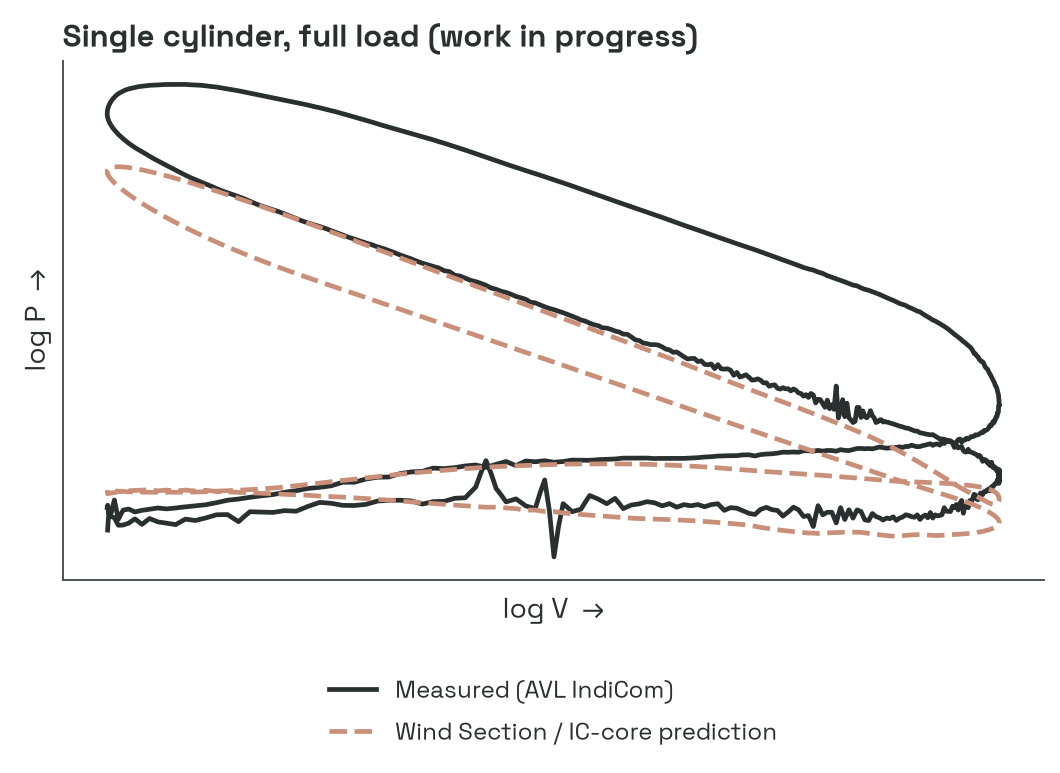
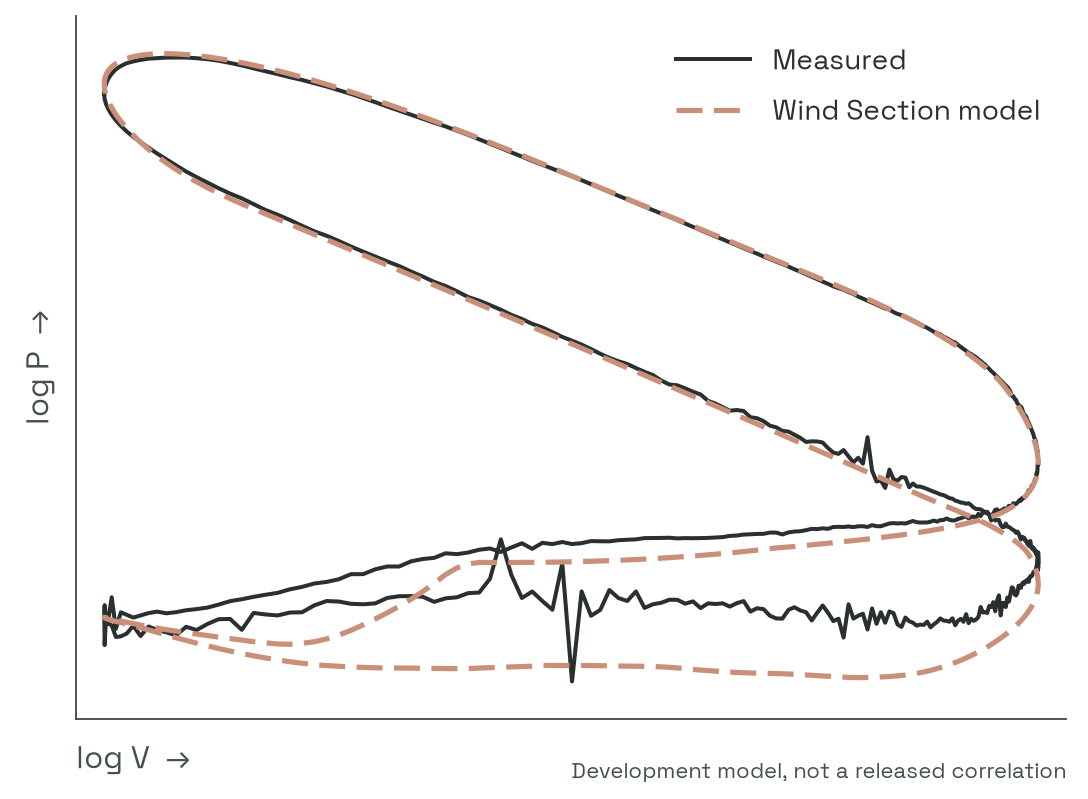
Update showcase: product marks, simplified text, new P-v figure

diff --git a/index.html b/index.html
@@ -8,12 +8,12 @@
 <meta name="theme-color" content="#2A2F2F">
 <title>Engineering Work | Clayton Naber | Naber Research</title>
 <link rel="stylesheet" href="assets/site.css">
-<link rel="icon" href="assets/img/nr-parent.png" type="image/png">
+<link rel="icon" href="assets/img/brand/nr-parent_badge_light_64w.png" type="image/png">
 </head>
 <body>
 <a class="skip" href="#main">Skip to content</a>
 <header>
- <div class="wrap brandline"><a href="#top" aria-label="Naber Research home"><img class="mark" src="assets/img/nr-parent-dark.png" alt="Naber Research"></a><span class="signature">Pro-level engineering for real racers.</span></div>
+ <div class="wrap brandline"><a href="#top" aria-label="Naber Research home"><img class="mark" src="assets/img/brand/nr-parent_horizontal_dark_640w.png" alt="Naber Research" width="640" height="123"></a><span class="signature">Pro-level engineering for real racers.</span></div>
 </header>
 <main id="main">
  <section class="hero wrap" id="top">
@@ -25,46 +25,55 @@
    <li><strong>Measure</strong><span>Pressure, motion, flow</span></li><li><strong>Calibrate</strong><span>Test data into models</span></li><li><strong>Simulate</strong><span>Cycle, dynamics, CFD</span></li><li><strong>Design</strong><span>Cam, spring, port</span></li><li><strong>Document</strong><span>Test and build records</span></li>
   </ol>
   <p class="return">↳ Test bench → model → hardware → test bench</p>
+  <div class="products" aria-labelledby="products-h">
+   <p class="eyebrow" id="products-h">Products</p>
+   <ul class="product-row">
+    <li><a href="#valvetrain"><img src="assets/img/brand/nr_valve-parlor_flat-icon-icon_fullcolor_256.png" alt="" width="256" height="256"><span class="pname">Valve Parlor</span><span class="psub">Valvetrain Testing &amp; Simulation</span></a></li>
+    <li><a href="#pressure"><img src="assets/img/brand/nr_wind-section_flat-icon-icon_fullcolor_256.png" alt="" width="256" height="256"><span class="pname">Wind Section</span><span class="psub">Engine Pressure Measurement &amp; Simulation</span></a></li>
+    <li><a href="#documentation"><img src="assets/img/brand/nr_assembly-required_flat-icon-icon_fullcolor_256.png" alt="" width="256" height="256"><span class="pname">Assembly Required</span><span class="psub">Engine Build Documentation</span></a></li>
+    <li><div><img src="assets/img/brand/nr_pedaling-sopha_flat-icon-icon_fullcolor_256.png" alt="" width="256" height="256"><span class="pname">Pedaling Sopha</span><span class="psub">Vehicle Simulation</span><span class="pnote">A vehicle modeling framework in early development.</span></div></li>
+   </ul>
+  </div>
   <nav aria-label="Selected work"><a href="#valvetrain">Valvetrain</a><a href="#pressure">Cylinder pressure</a><a href="#cam">Cam design</a><a href="#flow">Port &amp; flow</a><a href="#documentation">Build documentation</a></nav>
-  <aside class="notice"><strong>About these examples.</strong> Real-data plots have normalized, masked scales; project identifiers and operating conditions are omitted. The cam is a synthetic example. Figures show the engineering workflow, not a promise of model accuracy.</aside>
+  <aside class="notice">Real-data plots have masked scales; the cam is a synthetic example.</aside>
  </section>
  <section class="section wrap" id="valvetrain">
-  <div class="section-head"><div><p class="eyebrow">Valvetrain Testing &amp; Simulation</p><h2>Measure the motion.<br>Question the model.</h2></div><span class="status">Real data · scales masked</span></div>
-  <div class="prose"><p>Spintron measurements make valve motion visible. I compare a clean, low-speed Spintron lift measurement with a fitted OpenModelica model in VTsim, looking at the whole event, including closing and seating, not just peak lift.</p><p>This is a dated, fitted development case from September 2026. It is not the current production model and not a validated operating envelope. Both traces use the same cam-referenced alignment and the same lift normalization. The traces were not shifted independently to improve agreement.</p></div>
-  <figure class="wide"><a href="assets/img/valvetrain_overlay.png"><img src="assets/img/valvetrain_overlay.png" alt="Normalized Spintron valve lift and fitted VTsim model overlay across the full lift event, with a closing and seating detail. Axis scales are masked." loading="lazy"></a><figcaption>Low-speed Spintron measurement (solid) and a fitted VTsim development model from September 2026 (dashed). Same alignment and normalization for both traces; no independent shifting. Lift, speed, part and operating-condition values are withheld. Tap a figure to enlarge.</figcaption></figure>
+  <div class="section-head"><div><p class="product-tag"><img src="assets/img/brand/nr_valve-parlor_flat-icon-icon_fullcolor_256.png" alt="" width="256" height="256"><span>Valve Parlor</span></p><p class="eyebrow">Valvetrain Testing &amp; Simulation</p><h2>Measure the motion.<br>Question the model.</h2></div><span class="status">Real data · scales masked</span></div>
+  <div class="prose"><p>Spintron measurements make valve motion visible. I compare measured lift with an OpenModelica model in VTsim across the whole event, including closing and seating, not just peak lift.</p></div>
+  <figure class="wide"><a href="assets/img/valvetrain_overlay.png"><img src="assets/img/valvetrain_overlay.png" alt="Normalized Spintron valve lift and VTsim model overlay across the lift event, with a closing and seating detail. Axis scales are masked." loading="lazy"></a><figcaption>Spintron measurement and VTsim model, same alignment and normalization. A fitted development case; scales withheld.</figcaption></figure>
   <div class="grid two">
-   <article class="card"><h3>A spring model that follows the test</h3><p>Measured force versus height is the starting point for spring fitting. Body rate, the approach to coil bind and model residuals are checked separately; the tester’s post-bind stiffness is not treated as spring stiffness.</p><figure><a href="assets/img/spring_fit.png"><img src="assets/img/spring_fit.png" alt="Normalized measured spring force versus installed height compared with the fitted VTsim spring model. No numerical axis values are shown." loading="lazy"></a><figcaption>Real spring-test data and fitted model. Force and height are normalized; the operating range and part identity are masked.</figcaption></figure></article>
-   <article class="card cream"><h3>From fitted spring to CAD</h3><p>The spring workflow also creates helix geometry in FreeCAD. The model and CAD need to describe the same spring, not just share a label.</p><figure><a href="assets/img/spring_render.png"><img class="render" src="assets/img/spring_render.png" alt="Scale-free render of nested inner and outer spring helices generated in FreeCAD." loading="lazy"></a><figcaption>Render tessellated from the FreeCAD spring document. Dimensions, labels, coordinate axes and source-file metadata are not included.</figcaption></figure></article>
+   <article class="card"><h3>A spring model that follows the test</h3><p>Measured force versus height is the starting point for spring fitting. Body rate, the approach to coil bind and model residuals are checked separately; the tester’s post-bind stiffness is not treated as spring stiffness.</p><figure><a href="assets/img/spring_fit.png"><img src="assets/img/spring_fit.png" alt="Normalized measured spring force versus installed height compared with the fitted VTsim spring model. No numerical axis values are shown." loading="lazy"></a><figcaption>Spring-test data and fitted model. Scales withheld.</figcaption></figure></article>
+   <article class="card cream"><h3>From fitted spring to CAD</h3><p>The spring workflow also creates helix geometry in FreeCAD. The model and CAD need to describe the same spring, not just share a label.</p><figure><a href="assets/img/spring_render.png"><img class="render" src="assets/img/spring_render.png" alt="Scale-free render of nested inner and outer spring helices generated in FreeCAD." loading="lazy"></a><figcaption>Spring helices from the FreeCAD model. Scale withheld.</figcaption></figure></article>
   </div>
  </section>
  <section class="section wrap" id="pressure">
-  <div class="section-head"><div><p class="eyebrow">Engine Pressure Measurement &amp; Simulation</p><h2>Pressure data is a constraint,<br>not decoration.</h2></div><span class="status progress">Single-cylinder work in progress</span></div>
+  <div class="section-head"><div><p class="product-tag"><img src="assets/img/brand/nr_wind-section_flat-icon-icon_fullcolor_256.png" alt="" width="256" height="256"><span>Wind Section</span></p><p class="eyebrow">Engine Pressure Measurement &amp; Simulation</p><h2>Pressure data is a constraint,<br>not decoration.</h2></div><span class="status progress">Single-cylinder work in progress</span></div>
   <div class="grid text-figure">
-   <div><p>I use AVL IndiCom cylinder pressure measurements and indicating analysis to examine combustion and gas exchange, and to guide development of Wind Section / IC-core.</p><p>IC-core is a wide-open-throttle, one-dimensional engine cycle model with gas dynamics, thermodynamics, heat transfer and measured valve-lift input. The work is being extended from a single-cylinder structure to multiple cylinders.</p><div class="callout"><strong>This is not a correlation claim.</strong><p>The plot is an archived, early single-cylinder model snapshot beside measured pressure. The disagreement is part of the development work. Multi-cylinder extension and correlation remain under way.</p></div><p class="small">Both traces use a common pressure reference and a common volume reference before plotting on logarithmic axes. Units, absolute scale, tick values and operating conditions are fully masked. No raw data is included.</p></div>
-   <figure><a href="assets/img/pv_loglog.png"><img src="assets/img/pv_loglog.png" alt="Measured and early predicted pressure-volume loops on masked logarithmic axes. The prediction differs substantially from measurement; single-cylinder development is in progress." loading="lazy"></a><figcaption>Measured and predicted log P versus log V. Scales and units intentionally withheld. A model-development comparison, not proof of agreement.</figcaption></figure>
+   <div><p>I use AVL IndiCom cylinder pressure measurements and indicating analysis to examine combustion and gas exchange, and to guide development of Wind Section / IC-core.</p><p>IC-core is a wide-open-throttle, one-dimensional engine cycle model with gas dynamics, thermodynamics, heat transfer and measured valve-lift input. The work is being extended from a single-cylinder structure to multiple cylinders.</p><p class="small">Development model, not a released correlation. Measured trace pegged; scales withheld.</p></div>
+   <figure><a href="assets/img/pv_loglog.png"><img src="assets/img/pv_loglog.png" alt="Measured cylinder pressure and the Wind Section model as log P versus log V loops on masked axes." loading="lazy"></a><figcaption>Measured cylinder pressure and Wind Section model, log P vs log V.</figcaption></figure>
   </div>
  </section>
  <section class="section wrap" id="cam">
-  <div class="section-head"><div><p class="eyebrow">CamProfileDesignStudio</p><h2>Design motion first.<br>Then the lobe.</h2></div><span class="status synthetic">Synthetic example</span></div>
-  <div class="grid text-figure"><div><p>CamProfileDesignStudio works in the valve-motion domain, using a multi-polynomial cam profile method. Lift, velocity and acceleration are considered together before kinematic transforms produce tappet motion and cam geometry.</p><p>The broader workflow supports profile diagnostics, rocker kinematics and pitch-radius output for cam grinding. It is a design tool, not a substitute for dynamic testing.</p><div class="callout"><strong>A made-up cam, not an engine program.</strong><p>This figure was generated by CamProfileDesignStudio from a generic, symmetric example deck. All values are synthetic. Nothing here identifies an actual cam or customer engine.</p></div></div>
-  <figure><a href="assets/img/cam_example.png"><img src="assets/img/cam_example.png" alt="Synthetic generic cam example generated with CamProfileDesignStudio: lift, velocity and acceleration plotted against cam angle. All displayed numbers belong to this invented example." loading="lazy"></a><figcaption>Synthetic example generated with the MPOL2 five-segment method. Numerical units are shown only here because this is not real engine data.</figcaption></figure></div>
+  <div class="section-head"><div><p class="product-tag"><img src="assets/img/brand/nr_valve-parlor_flat-icon-icon_fullcolor_256.png" alt="" width="256" height="256"><span>Valve Parlor</span></p><p class="eyebrow">CamProfileDesignStudio</p><h2>Design motion first.<br>Then the lobe.</h2></div><span class="status synthetic">Synthetic example</span></div>
+  <div class="grid text-figure"><div><p>CamProfileDesignStudio works in the valve-motion domain, using a multi-polynomial cam profile method. Lift, velocity and acceleration are considered together before kinematic transforms produce tappet motion and cam geometry.</p><p>The broader workflow supports profile diagnostics, rocker kinematics and pitch-radius output for cam grinding.</p><p class="small">The figure is a synthetic example, not a real cam.</p></div>
+  <figure><a href="assets/img/cam_example.png"><img src="assets/img/cam_example.png" alt="Synthetic generic cam example generated with CamProfileDesignStudio: lift, velocity and acceleration plotted against cam angle. All displayed numbers belong to this invented example." loading="lazy"></a><figcaption>Synthetic example cam from CamProfileDesignStudio.</figcaption></figure></div>
  </section>
  <section class="section wrap" id="flow">
-  <div class="section-head"><div><p class="eyebrow">Port Flow CAD &amp; OpenFOAM</p><h2>Geometry that can be meshed.<br>Boundary conditions that can be checked.</h2></div><span class="status">Generic geometry · masked CFD</span></div>
+  <div class="section-head"><div><p class="product-tag"><img src="assets/img/brand/nr_wind-section_flat-icon-icon_fullcolor_256.png" alt="" width="256" height="256"><span>Wind Section</span></p><p class="eyebrow">Port Flow CAD &amp; OpenFOAM · Gas dynamics</p><h2>Geometry that can be meshed.<br>Boundary conditions that can be checked.</h2></div><span class="status">Generic geometry · masked CFD</span></div>
   <div class="grid two">
-   <article class="card cream"><h3>Port Flow CAD</h3><p>A prompt-and-image-guided FreeCAD workflow turns an intake-port concept into a solid fluid domain for meshing. The render shows an idealized parametric port, not a scanned internal passage.</p><figure><a href="assets/img/port_render.png"><img class="render" src="assets/img/port_render.png" alt="Scale-free copper render of an idealized parametric intake-port solid generated in FreeCAD." loading="lazy"></a><figcaption>Naber Research FreeCAD intake-port solid, rendered from a tessellation. Scale, dimensions and source identifiers are omitted; no CAD or mesh download is provided.</figcaption></figure></article>
-   <article class="card"><h3>Cd study: CFD back into the cycle model</h3><p>Generic pipe-mouth cases in OpenFOAM examine how inlet lip radius and pressure ratio affect discharge coefficient. The resulting Cd surface supplies boundary conditions to the one-dimensional model.</p><p>Checks include station definitions, mass-flow accounting and predictions at new CFD cases. I use both interpolation residuals and held-out checks; passing through the known points alone is not validation.</p><p class="small">The trend below uses generic geometry, not a customer port. The second panel compares spline predictions made before new CFD cases were run with the values those cases produced. Axes are masked. It is not a trend of measured engine flow or power.</p></article>
+   <article class="card cream"><h3>Port Flow CAD</h3><p>A prompt-and-image-guided FreeCAD workflow turns an intake-port concept into a solid fluid domain for meshing.</p><figure><a href="assets/img/port_render.png"><img class="render" src="assets/img/port_render.png" alt="Scale-free copper render of an idealized parametric intake-port solid generated in FreeCAD." loading="lazy"></a><figcaption>Idealized parametric intake-port solid. Scale withheld.</figcaption></figure></article>
+   <article class="card"><h3>Cd study: CFD back into the cycle model</h3><p>Generic pipe-mouth cases in OpenFOAM examine how inlet lip radius and pressure ratio affect discharge coefficient. The resulting Cd surface supplies boundary conditions to the one-dimensional model.</p><p>Checks include mass-flow accounting and predicting new CFD cases before they are run.</p></article>
   </div>
-  <figure class="wide"><a href="assets/img/cd_study.png"><img src="assets/img/cd_study.png" alt="Masked generic OpenFOAM study showing discharge coefficient against inlet lip radius at several pressure ratios, alongside predictions compared with newly run CFD cases." loading="lazy"></a><figcaption>Left: the inlet-radius trend at low, middle and high pressure ratio. Right: three predictions compared with new CFD results. All cases use generic pipe-mouth geometry; no absolute pressure, flow or geometry scale is disclosed.</figcaption></figure>
+  <figure class="wide"><a href="assets/img/cd_study.png"><img src="assets/img/cd_study.png" alt="Masked generic OpenFOAM study showing discharge coefficient against inlet lip radius at several pressure ratios, alongside predictions compared with newly run CFD cases." loading="lazy"></a><figcaption>Generic pipe-mouth OpenFOAM study: Cd vs inlet lip radius, and predictions vs new CFD cases. Scales withheld.</figcaption></figure>
  </section>
  <section class="section wrap" id="documentation">
-  <p class="eyebrow">Engine Build Documentation</p>
+  <p class="product-tag"><img src="assets/img/brand/nr_assembly-required_flat-icon-icon_fullcolor_256.png" alt="" width="256" height="256"><span>Assembly Required</span></p><p class="eyebrow">Engine Build Documentation</p>
   <div class="grid two">
-   <div><h2>Keep the reasoning with the engine.</h2><p>Assembly Required is engine build-book software with revision tracking. It connects design decisions, specifications, as-built records and test outcomes so the next build starts with evidence rather than a search through old notes.</p><p>Spintron and dyno DOE managers complement the build book by organizing planned runs, actual settings, notes and source-data links.</p><a class="button" href="https://bobsporkandbeans.github.io/ar-buildbook-5c60242a53/" target="_blank" rel="noopener noreferrer">Open the build-book demo <span aria-hidden="true">↗</span></a><p class="small">Public, read-only demo with demo data. Phone-friendly. Opens in a new tab.</p></div>
+   <div><h2>Keep the reasoning with the engine.</h2><p>Assembly Required is engine build-book software with revision tracking. It connects design decisions, specifications, as-built records and test outcomes so the next build starts with evidence rather than a search through old notes.</p><p>Spintron and dyno DOE managers complement the build book by organizing planned runs, actual settings, notes and source-data links.</p><a class="button" href="https://bobsporkandbeans.github.io/ar-buildbook-5c60242a53/" target="_blank" rel="noopener noreferrer">Open the build-book demo <span aria-hidden="true">↗</span></a><p class="small">Read-only demo with demo data.</p></div>
    <div class="how"><h3>How I work with AI</h3><p>I direct teams of AI coding agents to build and validate engineering software at a pace a small shop normally could not.</p><p>I own the physics, test data, acceptance checks and engineering judgment. Agents help implement and test the tools. Agreement with a test, a reference case or a conservation check has to be demonstrated, not asserted.</p><p class="small">The useful result is a tool I can question and a result I can trace, not a larger pile of code.</p></div>
   </div>
  </section>
 </main>
-<footer><div class="wrap"><img class="mark" src="assets/img/nr-parent-dark.png" alt="Naber Research"><h2>Talk engineering.</h2><a class="contact" href="mailto:clayton@naber-research.com">clayton@naber-research.com</a><a href="https://naber-research.com">naber-research.com ↗</a><p class="signature">Pro-level engineering for real racers.</p><p class="small muted">© Naber Research. Selected engineering work. Figures are masked or synthetic as labeled.</p></div></footer>
+<footer><div class="wrap"><img class="mark" src="assets/img/brand/nr-parent_horizontal_dark_640w.png" alt="Naber Research" width="640" height="123"><h2>Talk engineering.</h2><a class="contact" href="mailto:clayton@naber-research.com">clayton@naber-research.com</a><a href="https://naber-research.com">naber-research.com ↗</a><p class="signature">Pro-level engineering for real racers.</p><p class="small muted">Valve Parlor, Wind Section, Assembly Required and Pedaling Sopha, and their artwork, are marks of Naber Research.</p><p class="small muted">© Naber Research. Selected engineering work. Figures are masked or synthetic as labeled.</p></div></footer>
 </body>
 </html>

diff --git a/assets/site.css b/assets/site.css
@@ -6,3 +6,22 @@
 @media(max-width:760px){.wrap{width:calc(100% - 36px)}body{font-size:15px;line-height:1.7}.brandline{display:block;padding-block:18px}.mark{width:230px}.brandline .signature{display:block;font-size:14px;margin-top:12px}.hero{padding-top:32px}.hero h1{margin-bottom:18px}.desktop{display:none}.hero .lead{font-size:20px}.pipeline{grid-template-columns:repeat(2,minmax(0,1fr));gap:8px;margin-top:24px}.pipeline li:last-child{grid-column:1 / -1;display:flex;gap:14px;align-items:center}.pipeline li:last-child strong{margin:0}.pipeline li:after{display:none}.pipeline li{padding:12px}.pipeline strong{font-size:22px}.pipeline span{font-size:11px}.return{font-size:11px;text-align:left;margin-top:9px}.section{padding-block:34px}.section-head{display:block}.section-head h2{margin-bottom:12px}.status{display:inline-block;margin:0 0 20px}.grid,.two,.text-figure{grid-template-columns:1fr;gap:24px}.text-figure figure{margin-top:0}.card{padding:20px}.card p{font-size:14px}.how{padding:24px}.wide{margin-top:20px;margin-bottom:24px}figure>a{overflow-x:auto}figcaption{font-size:11px}.small{font-size:12px}.hero nav{gap:7px 17px;padding-block:14px}.notice{font-size:12px}h3{font-size:27px}footer{padding-block:34px}footer .signature{font-size:16px}}
 @media(prefers-reduced-motion:reduce){html{scroll-behavior:auto}}
 @media print{header,footer,.how{color:var(--charcoal);background:white}nav{display:none}figure,article{break-inside:avoid}.wrap{width:100%}.section{padding-block:20px}.hero{padding-top:20px}h1{font-size:42px}.brandline .mark,footer .mark{display:none}}
+/* Products (company endorses products: art-only flat icons, names and subtitles as text, no byline) */
+.mark{height:auto}
+.products{border-top:1px solid var(--line);padding:18px 0 6px;margin-top:4px}
+.products .eyebrow{margin-bottom:12px}
+.product-row{list-style:none;margin:0;padding:0;display:grid;grid-template-columns:repeat(4,minmax(0,1fr));gap:14px}
+.product-row li>a,.product-row li>div{display:grid;grid-template-columns:72px 1fr;column-gap:12px;align-items:center;text-decoration:none;height:100%;padding:10px 12px;border:1px solid var(--line);border-radius:4px}
+.product-row li>a:hover{border-color:var(--copper);color:inherit}
+.product-row img{width:72px;height:72px;grid-row:span 3}
+.pname{font-weight:700;font-size:14px;line-height:1.25;align-self:end}
+.psub{font-size:11.5px;line-height:1.35;color:var(--slate);align-self:start}
+.pnote{font-size:11px;line-height:1.35;color:var(--slate);font-style:italic;margin-top:3px}
+.product-row li>a .psub,.product-row li>a .pname{grid-column:2}
+.product-row li>a .pname:after{content:' ↓';color:var(--copper);font-weight:400}
+.product-tag{display:flex;align-items:center;gap:10px;margin:0 0 6px;font-weight:700;font-size:14px;color:var(--charcoal)}
+.product-tag img{width:52px;height:52px}
+@media(max-width:1000px) and (min-width:761px){.product-row{grid-template-columns:repeat(2,minmax(0,1fr))}}
+@media(max-width:760px){.product-row{grid-template-columns:1fr;gap:8px}.product-row li>a,.product-row li>div{grid-template-columns:64px 1fr;padding:8px 10px}.product-row img{width:64px;height:64px}.product-tag img{width:48px;height:48px}}
+.devnote{font-size:12.5px;line-height:1.6;color:var(--slate);border-left:2px solid var(--line);padding:2px 0 2px 12px;margin:18px 0}
+.devnote strong{color:var(--charcoal)}
